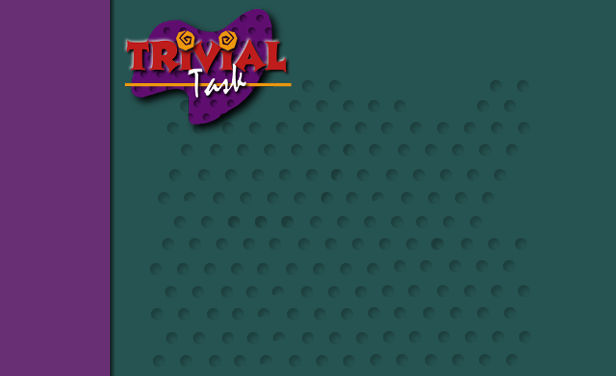
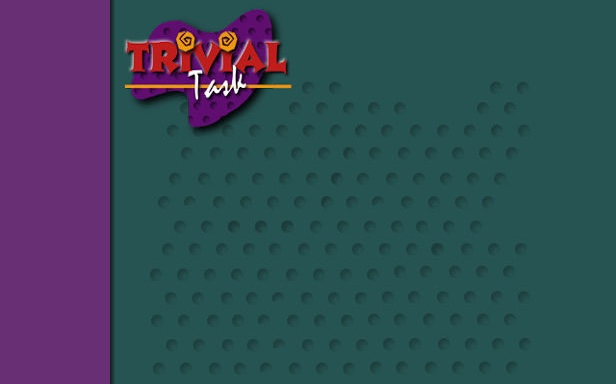
trivia index pages scale

Changed region(s): [[0.1851, 0.0585, 0.4935, 0.234], [0.4318, 0.0878, 0.4627, 0.1463]]

diff --git a/wtv/trivia/navmap/sportindex.html b/wtv/trivia/navmap/sportindex.html
@@ -1,7 +1,9 @@
 <html>
   <head>
-      <link rel="stylesheet" href="../../wtvstyles.css">	
-      <title>Trivial Task</title>
+    <link rel="stylesheet" href="../../wtvstyles.css">	
+    <script src="../../scaler.js"></script>
+    <META NAME="Author" CONTENT="(C) 1997 Louis F. Roehrs">
+    <title>Trivial Task</title>
   </head>
   <body background=../images/background.jpg hspace=4 vspace=4 valign=top bgcolor=#000000 text=#FFFFFF vlink=#c68c31 link=#c68c31 fontsize=medium>
     <display noscroll>

diff --git a/wtv/trivia/navmap/generalindex.html b/wtv/trivia/navmap/generalindex.html
@@ -1,6 +1,8 @@
 <html>
   <head>
     <link rel="stylesheet" href="../wtvstyles.css">	
+    <script src="../../scaler.js"></script>
+    <META NAME="Author" CONTENT="(C) 1997 Louis F. Roehrs">
     <title>WebTV Trivial Task!</title>
   </head>
   <body background=http://ed.webtv.net/~tpark/new/triviapub/images/background.jpg hspace=4 vspace=4 valign=top bgcolor=#000000 text=#FFFFFF vlink=#FFFFFF link=#FFFFFF fontsize=medium>

diff --git a/wtv/trivia/navmap/grabbagindex.html b/wtv/trivia/navmap/grabbagindex.html
@@ -1,6 +1,8 @@
 <html>
   <head>
       <link rel="stylesheet" href="../../wtvstyles.css">	
+      <script src="../../scaler.js"></script>
+      <META NAME="Author" CONTENT="(C) 1997 Louis F. Roehrs">
       <title>Trivial Task</title>
   </head>
   <body background=../images/background.jpg hspace=4 vspace=4 valign=top bgcolor=#000000 text=#FFFFFF vlink=#c68c31 link=#c68c31 fontsize=medium>

diff --git a/wtv/trivia/navmap/holidayindex.html b/wtv/trivia/navmap/holidayindex.html
@@ -1,6 +1,8 @@
 <html>
   <head>
       <link rel="stylesheet" href="../../wtvstyles.css">	
+      <script src="../../scaler.js"></script>
+      <META NAME="Author" CONTENT="(C) 1997 Louis F. Roehrs">
       <title>Trivial Task</title>
   </head>
   <body background=../images/background.jpg hspace=4 vspace=4 valign=top bgcolor=#000000 text=#FFFFFF vlink=#c68c31 link=#c68c31 fontsize=medium>

diff --git a/wtv/trivia/navmap/entertainindex.html b/wtv/trivia/navmap/entertainindex.html
@@ -1,6 +1,8 @@
 <html>
   <head>
     <link rel="stylesheet" href="../..//wtvstyles.css">	
+    <script src="../../scaler.js"></script>
+    <META NAME="Author" CONTENT="(C) 1997 Louis F. Roehrs">
     <title>Trivial Task</title>
   </head>
   <body background="../images/background.jpg" hspace=4 vspace=4 valign=top bgcolor=#000000 text=#FFFFFF vlink=#c68c31 link=#c68c31 fontsize=medium>

diff --git a/wtv/trivia/navmap/index.html b/wtv/trivia/navmap/index.html
@@ -1,6 +1,9 @@
 <html>
   <head>
     <link rel="stylesheet" href="../../wtvstyles.css">	
+    <script src="../../scaler.js"></script>
+    <META NAME="Author" CONTENT="(C) 1997 Louis F. Roehrs">
+
     <title>Trivial Task</title>
   </head>
   <body background=../images/background.jpg hspace=4 vspace=4 valign=top bgcolor=#000000 text=#FFFF00 vlink=#c68c31 link=#c68c31 fontsize=medium>

diff --git a/wtv/aspacerace/game.html b/wtv/aspacerace/game.html
@@ -4,7 +4,7 @@
     <script src="../scaler.js"></script>    
     <META NAME="Author" CONTENT="(C) 1997 Louis F. Roehrs">
     
-    <title>Building Game...</title>
+    <title>SpaceRace</title>
     <script src="../../ruffle/ruffle.js"></script>
     <script>
       window.RufflePlayer = window.RufflePlayer || {};

diff --git a/wtv/trivia/index.html b/wtv/trivia/index.html
@@ -1,6 +1,10 @@
 <html>
 
 <title>Trivial Task!</title>
+<head>
+    <link rel="stylesheet" href="../wtvstyles.css">	
+    <script src="../scaler.js"></script>
+    <META NAME="Author" CONTENT="(C) 1997 Louis F. Roehrs">
 
 <body 
    background=../../images/background.jpg 

diff --git a/wtv/wtvstyles.css b/wtv/wtvstyles.css
@@ -16,11 +16,11 @@ body {
     background-color: black;
     background-repeat: no-repeat;
     height:100vh;
-    
+    display: none;    
 }
 
 .arcadebody {
-    display: none;
+
 }
 
 input {

diff --git a/wtv/trivia/navmap/.#sportindex.html b/wtv/trivia/navmap/.#sportindex.html
@@ -1,0 +1,1 @@
+lroehrs@Louis-Tiger-Mac.local.37491

diff --git a/wtv/triviapub/wtv_html_fixup.py b/wtv/triviapub/wtv_html_fixup.py
@@ -45,7 +45,10 @@ def step_stylesheet(content):
         return content
     return re.sub(r'(<html>)', r'\1\n<head>    ' + STYLESHEET_LINK + r'\n</head>', content, flags=re.IGNORECASE)
 
+def step_scaler(content):
+    return re.sub(r'<link rel="stylesheet" href="../../wtvstyles.css">',r'    <link rel="stylesheet" href="../../wtvstyles.css">\n    <script src="../../scaler.js"></script>\n    <META NAME="Author" CONTENT="(C) 1997 Louis F. Roehrs">',content, flasgs=re.IGNORECASE)
 
+	
 def step_footer(content):
     if re.search(r'<footer>', content, re.IGNORECASE):
         return content
@@ -254,6 +257,7 @@ def reindent(content):
 
 TRANSFORMSALL = [
     ('stylesheet',    step_stylesheet),
+    ('scaler',        step_scaler),
     ('footer',        step_footer),
     ('absheight',     step_absheight),
     ('abswidth',      step_abswidth),
